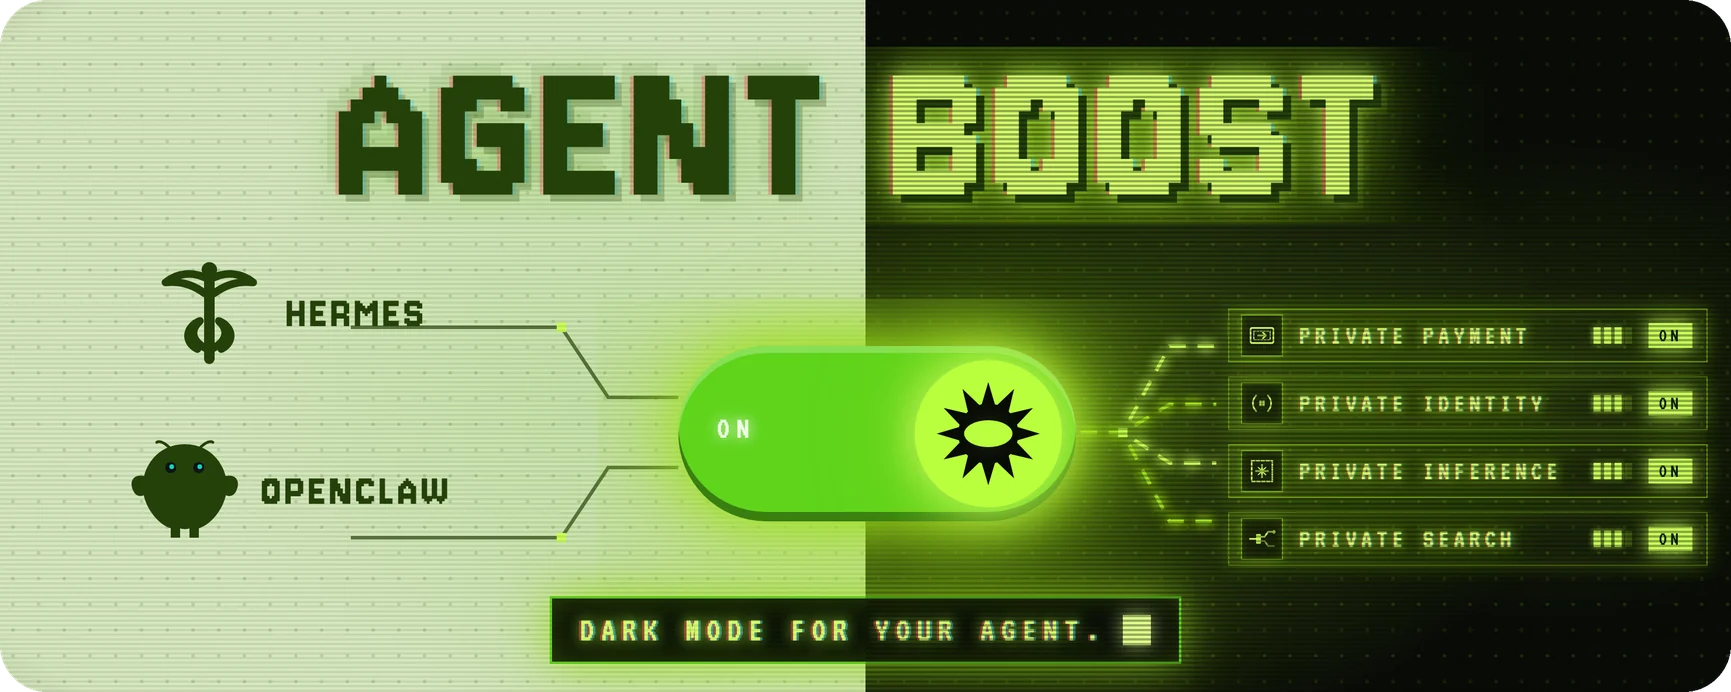
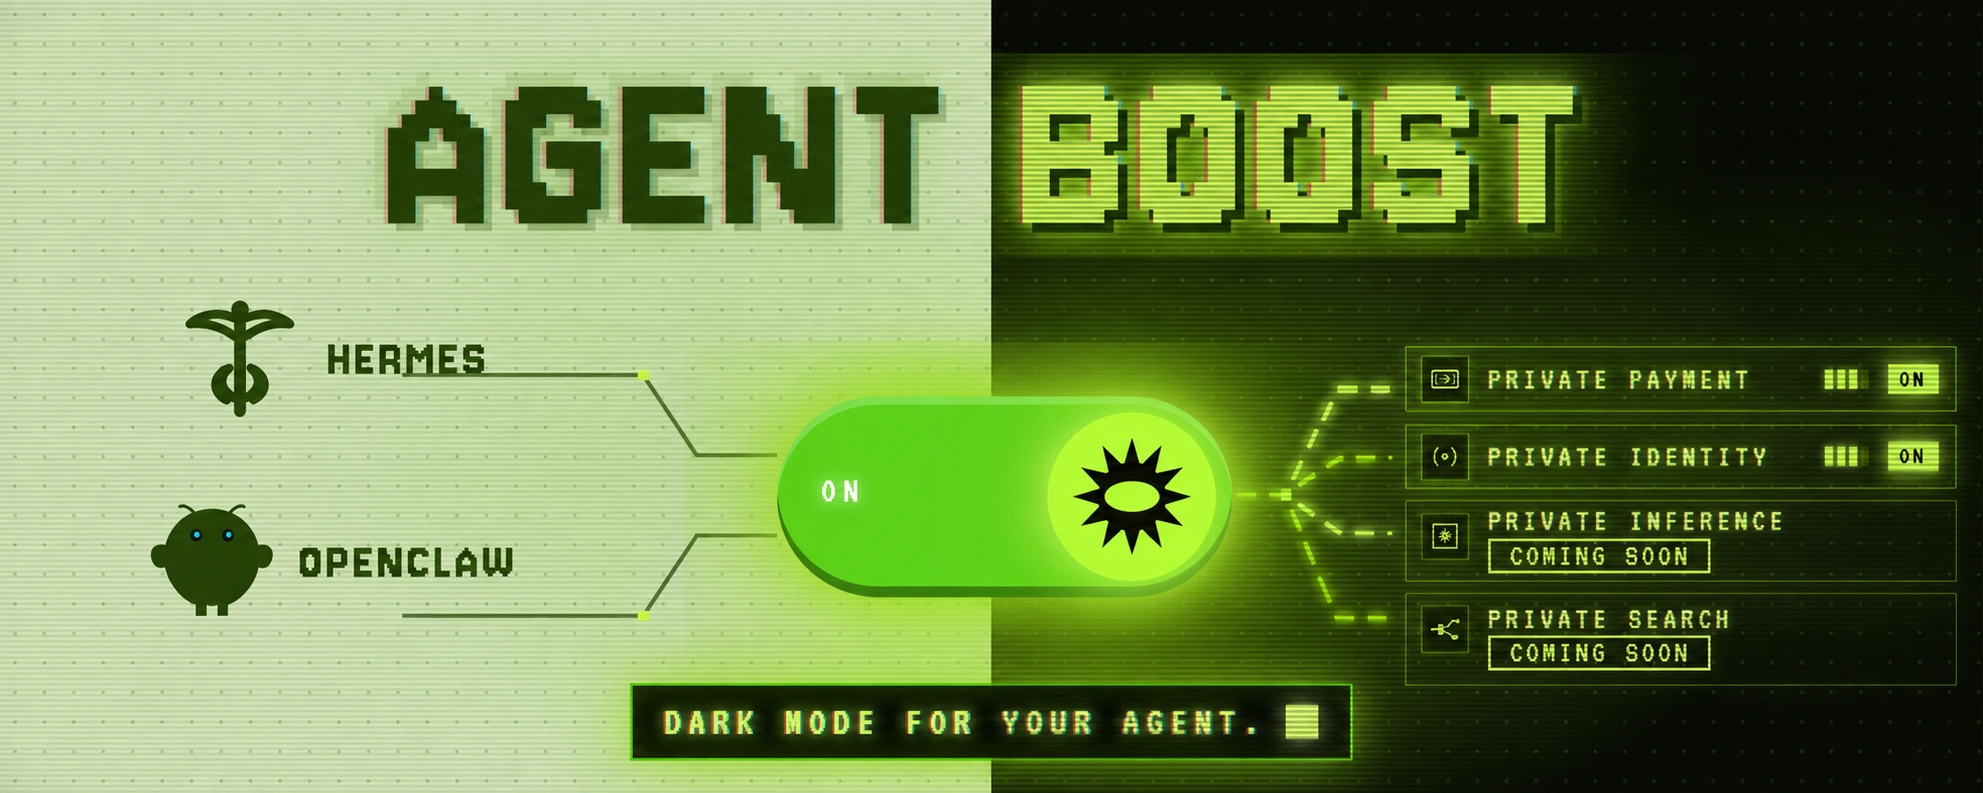
docs: prepare Agent Boost announcement and coming-soon feature labels

diff --git a/launch/2026-09-07/README.md b/launch/2026-09-07/README.md
@@ -1,0 +1,76 @@
+# Agent Boost — Twitter post kit
+
+Prepared for September 7, 2026, America/New_York.
+
+## Ready to post
+
+1. Copy `post.txt` into Twitter/X.
+2. Attach `agent-boost-coming-soon.png`.
+3. Paste `alt-text.txt` into the image description.
+4. Optionally add `reply-how-it-works.txt` as a reply.
+
+The main post stands on its own and does not require a public repository link.
+
+## Repository link
+
+`dmarzzz/agent-boost` was verified as **private** during preparation. Use
+`reply-repo-once-public.txt` only after the repository is public and its link
+opens while signed out. Making the repository public is a separate publishing
+decision; no visibility change is included in this preparation.
+
+The repository currently has no open-source license. The copy therefore does
+not call the project open source.
+
+## Feature wording
+
+- Private payment and identity: the current research preview, using fresh
+  Ethereum accounts and shielded Sepolia test payments through Kohaku.
+- Private search: **coming soon**.
+- Private inference: **coming soon**.
+- Covered HTTPS egress: a separate research-preview capability that requires
+  Grove enrollment. It is not the upcoming private search product.
+- The copy names Hermes, the integration documented in the current repository.
+  The existing graphic retains its Hermes and OpenClaw branding; this kit does
+  not claim a verified OpenClaw installation flow.
+
+## Prepared replies to likely questions
+
+**What does private identity mean here?**
+
+Fresh wallet accounts/addresses for the agent. It isn't a claim that the whole
+agent session is anonymous; funding, timing, and other activity can still be
+correlated.
+
+**Does it make all of Hermes private?**
+
+No. These are scoped capabilities. Covered HTTPS fetches are explicit, and the
+model provider, browser, and other process traffic aren't automatically routed
+through them.
+
+**Can I use real funds?**
+
+This preview is Sepolia-only, unaudited research software. Use disposable test
+funds.
+
+**When do search and inference arrive?**
+
+They're coming soon. I don't have a release date to share yet.
+
+## Local repo preparation
+
+The matching README status changes and corrected banner are prepared in this
+checkout on `codex/agent-boost-launch-prep`, based on `origin/main` at `6ec26fe`.
+The README distinguishes the upcoming features from the existing wallet and
+covered-egress preview. This kit does not publish a post, schedule a post,
+change repository visibility, or claim a fresh end-to-end wallet test.
+
+For a public repository launch, land the prepared README/banner changes before
+posting its link. The upstream main checks were green when inspected (Node 22
+and 24; clean installs on macOS ARM64, macOS Intel, and Ubuntu 24.04 ARM64).
+
+## Asset provenance
+
+The graphic uses the original high-resolution phosphor banner from
+`/Users/halcyon/agent-boost-branding/agent-boost-hero-phosphor-short@2x.png`.
+The edit is made with the built-in image generation tool. Its exact prompt is
+saved in `image-edit-prompt.txt`.

diff --git a/README.md b/README.md
@@ -1,4 +1,4 @@
-![Agent Boost banner: two agents, one switch, four private lanes](assets/agent-boost-readme-banner.webp)
+![Agent Boost: private payment and identity marked on; private inference and private search marked coming soon](assets/agent-boost-readme-banner.webp)
 
 # Agent Boost
 
@@ -19,9 +19,10 @@ Agent Boost is a local privacy sidecar for Hermes. It gives an agent tightly
 scoped private capabilities while deterministic software—not the model—owns
 live facts, policy, approval, secrets, and side effects.
 
-The public preview centers on a shielded Sepolia wallet and explicitly scoped
-Shade Tree egress. Private inference is a separate experimental lane, not a
-blanket-private Hermes session.
+The research preview centers on a shielded Sepolia wallet and explicitly scoped
+Shade Tree egress. **Private search and private inference are coming soon.**
+Covered HTTPS egress is a separate, explicitly invoked capability; it does not
+provide a private search product or a blanket-private Hermes session.
 
 > [!CAUTION]
 > Unaudited research software. The wallet is Sepolia-only and intended for
@@ -30,9 +31,12 @@ blanket-private Hermes session.
 
 ## What it adds
 
-| Private payment and identity | Covered egress | Private inference |
+| Capability | Status | What it covers |
 | --- | --- | --- |
-| Fresh Ethereum accounts and shielded test payments through Kohaku. Hermes sees the address, balance, and status—never the keys. | Explicit public HTTPS reads through a Shade Tree over Tor. The route is bounded, independently enrolled, and has no direct fallback. | An experimental opt-in path for discrete subproblems sent to attested confidential compute, with a verified response receipt. |
+| Private payment and identity | Research preview | Fresh Ethereum accounts and shielded Sepolia test payments through Kohaku. Wallet tool results expose addresses, balances, and status, while keeping signing material out of the model conversation. |
+| Covered egress | Research preview; Grove enrollment required | Explicit public HTTPS reads through a Shade Tree over Tor. The route is bounded and has no direct fallback. |
+| Private search | Coming soon | A future search capability; distinct from the covered HTTPS reads available in the preview. |
+| Private inference | Coming soon | A planned opt-in path for discrete subproblems sent to attested confidential compute, with a verified response receipt. |
 
 These are independent lanes. Enabling one does not silently reroute the others.
 
